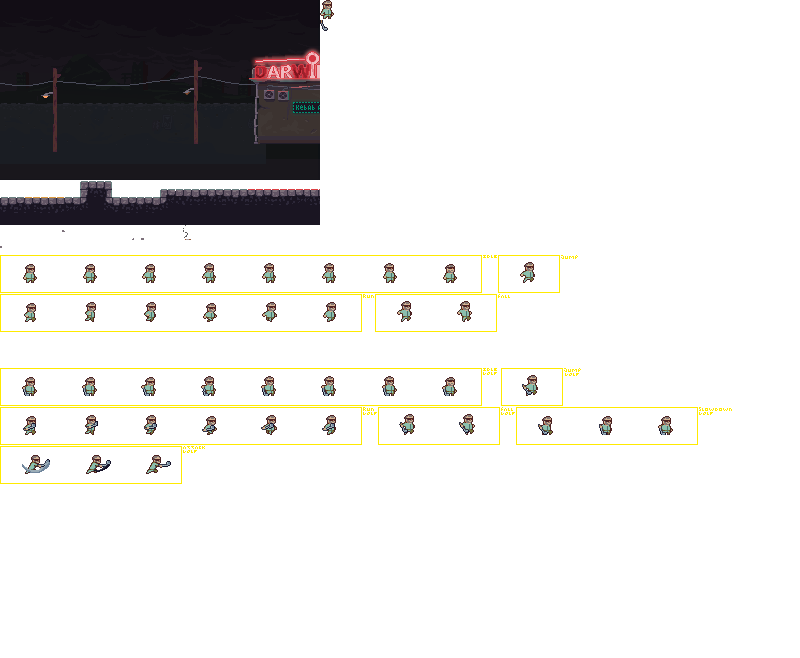
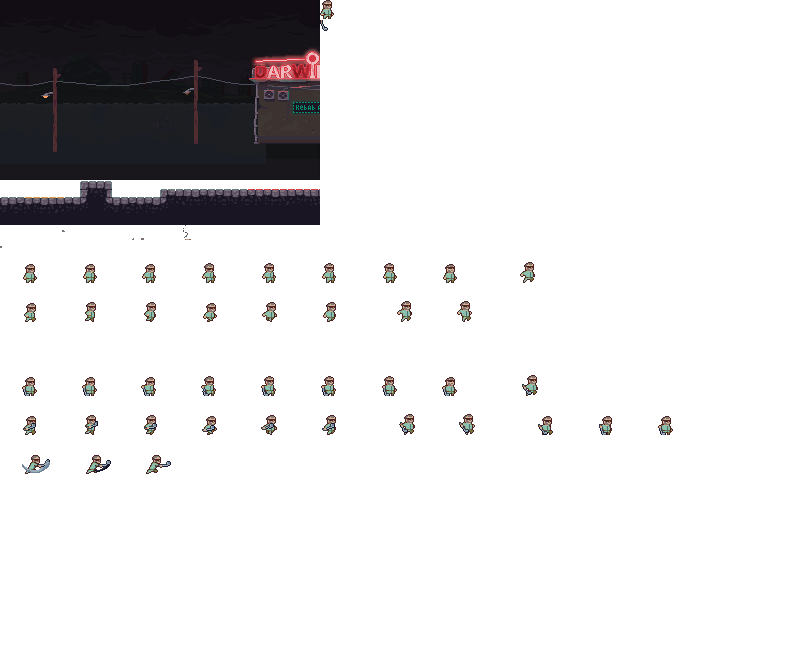
Fix is grounded not updated while falling. Fix yellow lines on atlas

diff --git a/src/renderingSystems.cpp b/src/renderingSystems.cpp
@@ -524,8 +524,8 @@ void CharacterMovementSystem::update()
 	if (wasAttackKeyPressedThisFrame() && movementComponent->isGrounded)
 	{
 		attackedThisFrame = true;
-		//movementComponent->currentSpeed.x += 1.f;
-		//movementComponent->currentSpeed.y = -1.f;
+		float attackForwardBoost = spriteComponent->flipX ? -1.f : 1.f;
+		movementComponent->currentSpeed.x += attackForwardBoost;
 	}
 
 	processHorizontalMovement(&character);
@@ -696,6 +696,7 @@ void CharacterMovementSystem::processVerticalMovement(Entity* self)
 		{
 			transformComponent->position.y += movementDirection;
 			pixelsToMove -= movementDirection;
+			movementComponent->isGrounded = false;
 		}
 		else
 		{

diff --git a/src/level.cpp b/src/level.cpp
@@ -231,6 +231,8 @@ void ECSLevel::imguiRender()
 
     ImGui::Text("Character state: %s", movement->getMovementStateAsString());
 
+    ImGui::Text("Player is %s grounded", movement->isGrounded ? "" : "not");
+
     ImGui::Text("Player Collider X Offset: %i", collider->collider.topLeftPointOffset.x);
     ImGui::Text("Player Collider Y Offset: %i", collider->collider.topLeftPointOffset.y);
 
